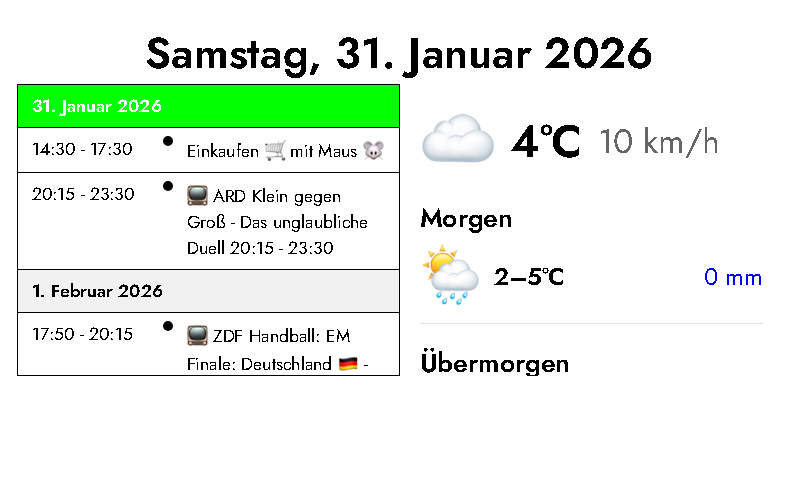
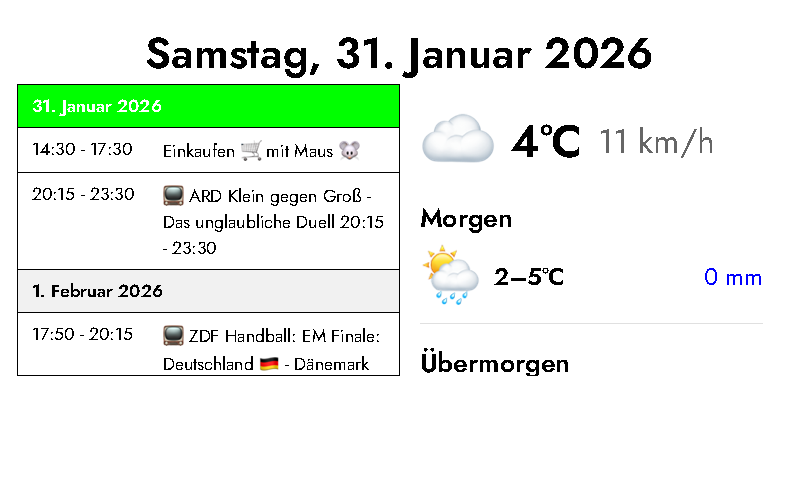
dots removed from list

diff --git a/src/plugins/seniorDashboard_allDay/render/seniorDashboard_allDay.css b/src/plugins/seniorDashboard_allDay/render/seniorDashboard_allDay.css
@@ -204,6 +204,25 @@ th {
   font-size: var(--fc-table-font-size) !important;
 }
 
+/* Hide the colored calendar ID dot in list view and free space for event title */
+.fc-list-event .fc-list-event-graphic,
+.fc-list-event .fc-event-dot,
+.fc-list-event-graphic {
+  display: none !important;
+}
+
+/* Give event title full width where the dot was */
+.fc-list-event .fc-list-event-title {
+  flex: 1;
+  min-width: 0;
+  overflow: hidden;
+  text-overflow: ellipsis;
+}
+
+.fc-list-event .fc-list-event-time {
+  flex-shrink: 0;
+}
+
 /* Style today's date header in list views with pure green background for Waveshare EPD */
 .fc-list-day.fc-day-today {
   background-color: #00FF00 !important;
